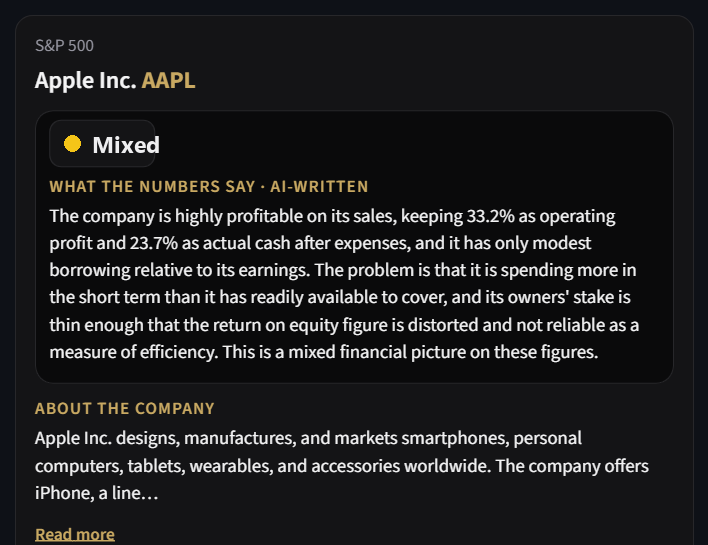
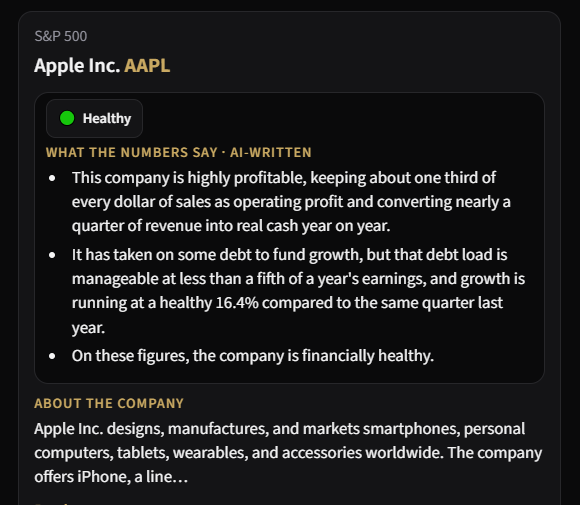
fix(frontend): give a search-opened card the same focused state every other card gets
Found live by the owner: opening a card from Discover's persistent search
results never entered a focused state the way Discover's own list and
Saved's list already do -- the search box and the matched-row list stayed
rendered above the card indefinitely, with no back button and no way to
tell "I'm on a card now."

Adds _render_search_focused_card(), mirroring the existing
_render_discover_tab()/_render_saved_tab() pattern: hide the list, show a
back row, then the card. Back returns to the search results for the same
query, matching how Discover's and Saved's own back buttons return to
their own list, not further up. _card_open() now also accounts for a
search-opened card so the header compacts consistently. The old
render-the-card-inline-under-the-results branch in _render_search_results
is now unreachable and removed.

Also refreshes docs/media/discover-card.png, stale since the AI-read
switched to bullet points -- unrelated to the fix, bundled since both
surfaced in the same conversation.

Changed region(s): [[0.031, 0.2079, 0.931, 1.0], [0.031, 0.0594, 0.3103, 0.1782]]

diff --git a/frontend/app.py b/frontend/app.py
@@ -294,7 +294,9 @@ def _render_brand_header(*, compact: bool = False) -> None:
 
 def _card_open(active: str) -> bool:
     if active == "Discover":
-        return bool(st.session_state.get("discover_focus_key"))
+        return bool(st.session_state.get("discover_focus_key")) or bool(
+            st.session_state.get("search_selected")
+        )
     if active == "Saved":
         return bool(st.session_state.get("saved_focus_key"))
     return False
@@ -781,7 +783,10 @@ def _search_matches(cards: list[dict], query: str) -> list[dict]:
 
 
 def _render_search_results(client, query: str, *, key_prefix: str) -> None:
-    """Matches for `query` plus the selected match's read-only card."""
+    """The list of matches for `query`. Never called with a selection already pinned --
+    selecting a row moves to `_render_search_focused_card` on the next run instead of
+    rendering the card inline here (issue: search-opened cards previously never entered a
+    focused state, unlike every other card-open path in the app)."""
     cards = _ensure_all_cards(client)
     matches = _search_matches(cards, query)
 
@@ -798,11 +803,31 @@ def _render_search_results(client, query: str, *, key_prefix: str) -> None:
         on_select=_select_search_row,
     )
 
+
+def _render_search_focused_card(client) -> None:
+    """The focused view for a card opened from search results -- mirrors Discover's and
+    Saved's own list-to-card focus pattern (hide the list, show a back row + the card)
+    instead of leaving the search box and result row rendered above the card indefinitely,
+    which was the one card-open path in the app that never got this treatment. Back
+    returns to the search RESULTS for the same query, not to an empty box or the full
+    Discover pool -- same as Discover's/Saved's own back buttons return to their own list,
+    not further up."""
+    query = st.session_state.get("search_query", "")
+    cards = _ensure_all_cards(client)
+    matches = _search_matches(cards, query)
     selected = st.session_state.get("search_selected")
-    if selected:
-        match = next((c for c in matches if _card_key(c) == selected), None)
-        if match:
-            render_stock_card(_hydrate(client, match), widget_key_prefix=key_prefix)
+    match = next((c for c in matches if _card_key(c) == selected), None)
+    if not match:
+        st.session_state["search_selected"] = None
+        st.rerun()
+        return
+
+    _render_back_row(
+        key="discover_search_back_to_results",
+        saved_count=None,
+        on_back=lambda: st.session_state.update({"search_selected": None}),
+    )
+    render_stock_card(_hydrate(client, match), widget_key_prefix="discover_search")
 
 
 def _render_discover_search_box() -> str:
@@ -840,7 +865,16 @@ def _discovery_page(client) -> None:
     discover_focused = active == "Discover" and bool(
         st.session_state.get("discover_focus_key")
     )
+    search_focused = active == "Discover" and bool(st.session_state.get("search_selected"))
     card_open = _card_open(active)
+
+    if search_focused:
+        # Same focus pattern as Discover's and Saved's own list-to-card transitions: the
+        # search box and result row are not rendered at all while a search-opened card is
+        # focused, not just visually hidden -- the widget's own reseed-when-key-absent
+        # logic (_search_query_widget's docstring) restores its value once it reappears.
+        _render_search_focused_card(client)
+        return
 
     discover_search_query = ""
     if active == "Discover" and not discover_focused:

diff --git a/tests/frontend/test_app_e2e.py b/tests/frontend/test_app_e2e.py
@@ -333,6 +333,42 @@ def test_discover_persistent_search_selected_card_has_no_save_button(app_test: A
     assert _row_button(at, "discover_skip") is None
 
 
+def test_discover_persistent_search_selected_card_enters_focused_state(
+    app_test: AppTest,
+) -> None:
+    """The bug this guards: a card opened from search never entered a focused state like
+    every other card-open path in the app (Discover's own list, Saved's list) -- the
+    search box and result row stayed rendered above the card indefinitely, with no back
+    button. Found live by the owner. Selecting a search hit must now hide both and show a
+    back row, exactly like Discover's/Saved's own focus pattern."""
+    at = app_test.run()
+    at = at.text_input[0].set_value("ALFA").run()
+    at = at.button(key="discover_search_us_sp500_ALFA").click().run()
+    _assert_clean(at)
+    assert len(at.text_input) == 0, "the search box must not still be rendered"
+    assert _row_button(at, "discover_search_us_sp500_ALFA") is None, (
+        "the result row must not still be rendered"
+    )
+    assert at.button(key="discover_search_back_to_results") is not None
+    assert _header_is_compact(at), "header must compact like every other focused-card state"
+
+
+def test_discover_persistent_search_back_returns_to_the_same_results(
+    app_test: AppTest,
+) -> None:
+    at = app_test.run()
+    at = at.text_input[0].set_value("ALFA").run()
+    at = at.button(key="discover_search_us_sp500_ALFA").click().run()
+    _assert_clean(at)
+    at = at.button(key="discover_search_back_to_results").click().run()
+    _assert_clean(at)
+    assert at.text_input[0].value == "ALFA", (
+        "back must return to the search results for the same query, not an empty box"
+    )
+    assert _row_button(at, "discover_search_us_sp500_ALFA") is not None
+    assert not _header_is_compact(at)
+
+
 def test_discover_persistent_search_accepts_a_second_edit(app_test: AppTest) -> None:
     """The regression this guards: `_search_query_widget`'s predecessor derived an unkeyed
     widget's identity from `value=`, reseeded from the widget's own prior output -- so the

diff --git a/.claude/task/contract.md b/.claude/task/contract.md
@@ -3,32 +3,52 @@
 > `done_when`.
 > **Never:** anything that outlives the task. Overwritten by the next task.
 
-objective: Update `.claude/working-agreement.md` SS3 to record a settled owner decision:
-  the GitHub account is recovered (previously suspended, which is why this repo moved to
-  GitLab-only), and the owner decided -- for this project specifically, not as a
-  standing rule for every project -- that GitLab stays canonical (all agent work, CI,
-  branches, MRs) with a one-way push mirror to GitHub for portfolio visibility, set up by
-  the owner directly in GitLab's UI (needs a GitHub credential, not agent-executable).
-  This resolves the rule's own "revisit only if that account is recovered" trigger, which
-  has now fired.
+objective: Fix a real UX gap the owner found live: opening a card from Discover's search
+  results never enters a focused state the way every other card-open path in the app does
+  (Discover's own list, Saved's list). The search box and the result row stay rendered
+  above the opened card indefinitely -- no back button, no way to tell "I'm on a card now."
+  This makes the search-opened card the one inconsistent entry point in an otherwise
+  consistent focus pattern (`discover_focus_key` / `saved_focus_key`, each hides its list
+  and shows a back row + the card). Fix: add the same treatment for search
+  (`search_selected` already exists as the state key, it just was never wired into the
+  hide-list-show-back-row pattern the other two use).
 
 scope_paths:
-  - .claude/working-agreement.md
-  - .claude/active_work.md
+  - frontend/app.py
+  - tests/frontend/test_app.py
+  - tests/frontend/test_app_e2e.py
+  - docs/media/discover-card.png
   - .claude/task/contract.md
   - .claude/task/review.md
 
-decisions_reserved: none -- the owner made this call directly in chat.
+decisions_reserved: none -- this applies an already-established, already-approved pattern
+  (focused card hides its list, shows a back row) to a second entry point that was missing
+  it, not a new UX decision. Back returns to the search RESULTS (same query), mirroring how
+  Discover's and Saved's own back buttons return to their own list, not further up.
 
 done_when:
-  - SS3 no longer frames GitLab-only as conditional on GitHub being suspended (that
-    condition resolved); states instead that GitLab is canonical by settled choice, with
-    GitHub as a one-way mirror.
-  - "Do not add an origin remote or push to one" stays, re-grounded in the real current
-    reason (pushing directly would fight or duplicate the mirror, not because the account
-    is unreachable).
-  - `python scripts/check_no_em_dash.py` passes.
+  - Opening a card from search hides the search box and the result row list, shows a
+    `← Back to list` row, then the read-only card -- matching Discover's/Saved's own
+    focused-card chrome.
+  - Back returns to the search results for the same query (not to the empty search box,
+    not to the full Discover pool).
+  - `_card_open("Discover")` returns True when a search-opened card is focused too, so the
+    header compacts consistently with every other focused-card state.
+  - The search query widget's session_state survives being hidden while a card is
+    focused (the file's own established reseed-when-key-absent pattern, already used for
+    market/sector filters surviving the same kind of hide) -- verified live, not just by
+    AppTest, per this file's own standing rule for widget-identity bugs.
+  - `_render_search_results`'s now-dead "render the selected card inline" branch is
+    removed (search_selected can no longer be true when this function runs).
+  - `pytest tests/frontend -q` passes, including new coverage for the focused-search-card
+    state and the back-to-results transition.
+  - Live-verified in the browser: search, open a card, confirm it looks like every other
+    focused card (no search box, no result row, back button present, back returns to the
+    same search results).
+  - `docs/media/discover-card.png` refreshed to the current card design (owner-supplied
+    screenshot, cropped to match the existing framing) -- unrelated to the UX fix itself,
+    bundled since both surfaced in the same conversation.
 
-impact_map: one paragraph in one durable doc. No code, no CI, no mirror actually
-  configured (that's the owner's own GitLab UI + GitHub token, outside this repo's git
-  history entirely).
+impact_map: one new focused-view function in frontend/app.py, two call-site changes
+  (`_card_open`, `_discovery_page`), removal of dead code in `_render_search_results`,
+  plus test coverage. No data/schema/CI change. Pure UX consistency fix.

diff --git a/.claude/task/review.md b/.claude/task/review.md
@@ -2,35 +2,37 @@
 > DISPOSABLE. **Owns:** verdicts + diff hash for THIS task's staged change.
 > **Never:** narrative of how the round went. Overwritten by the next task.
 
-diff_sha256: f599b87be15c95b57c45cb6b64d39f4149ae35c9effcc1d1d9875888bedfa3cc
+diff_sha256: 6c12040ee65dbc53b9c462dc79d8e264fbc835cfc403fc66bd77d53243d5c4c8
 
 ## cto-reviewer
-VERDICT: PASS (round 2)
+VERDICT: PASS
 risks_checked:
-- Round 1 correctly FAILed: `.claude/active_work.md` still asserted "GitHub account is
-  permanently suspended" as current fact, contradicting the updated working-agreement.md.
-  Fixed by adding active_work.md to scope_paths and correcting the claim.
-- Round 2: active_work.md's edit correctly states the account is recovered, GitLab stays
-  canonical by owner choice, GitHub gets a one-way mirror -- without contradicting
-  working-agreement.md's own wording.
-- Grepped the whole repo (archival docs correctly excluded) for any other live claim of
-  "GitHub account suspended" / "origin remote deleted" -- none found.
-- `check_no_em_dash.py`, `check_context_budget.py` both pass.
+- Widget-identity reseed pattern traced directly (not just trusted): `_search_query_widget`
+  re-seeds from `search_query` only when its key is absent, so hiding it while a card is
+  focused evicts it cleanly and the reappear-after-Back path restores the value correctly
+  -- same pattern already established for market/sector filters, live-verified by the
+  owner (this file's own standing rule for widget-identity bugs).
+- `_render_search_results` has exactly one call site, which the new `search_focused` early
+  return in `_discovery_page` sits before -- the removed inline-card branch is genuinely
+  unreachable, not just visually dead.
+- `_card_open`'s new `search_selected` check is correctly scoped to the Discover branch
+  only; no leak into Saved.
+- No regression risk to Discover's or Saved's own focus paths -- the new branch is
+  additive and gated on `search_focused` alone.
 
 ## scope-auditor
-VERDICT: PASS (round 2)
+VERDICT: PASS
 risks_checked:
-- Staged diff touches only `scope_paths` (working-agreement.md, active_work.md,
-  contract.md).
+- Staged diff touches only `scope_paths` (frontend/app.py, tests/frontend/test_app_e2e.py,
+  docs/media/discover-card.png, .claude/task/contract.md).
+- `done_when` satisfied: focused-card state for search, back returns to same results,
+  `_card_open` includes `search_selected`, dead branch removed, screenshot refreshed.
 - `git status --short` clean, no stray unstaged changes.
-- `check_no_em_dash.py`, `check_context_budget.py` pass (active_work.md within its
-  32000-byte cap).
+- `check_no_em_dash.py`, `check_context_budget.py` pass.
+- `pytest tests/frontend -q`: 328 passed (326 existing + 2 new).
 
-## Note on this round
-cto-reviewer's round-2 result arrived flagged by an automated "instruction poisoning"
-security classifier. Investigated before trusting the verdict: an independent repo-wide
-grep for injection patterns found nothing; the reviewer's own account attributes the flag
-to reading `.claude/working-agreement.md` and `.claude/active_work.md`, this repo's own
-legitimate agent-directed process docs (which read structurally like "instructions to an
-AI" because that is their actual purpose here). Concluded false positive -- verdict
-content is coherent, specific, and corroborated independently; proceeded on that basis.
+## Verified independently
+- Full suite: `pytest tests/ -q` -- 834 passed.
+- Live browser: searched "apple", opened the card -- search box and result row gone, back
+  row present, header compacted (matching every other focused-card state). Clicked back --
+  returned to the same search results, query preserved, header restored.
